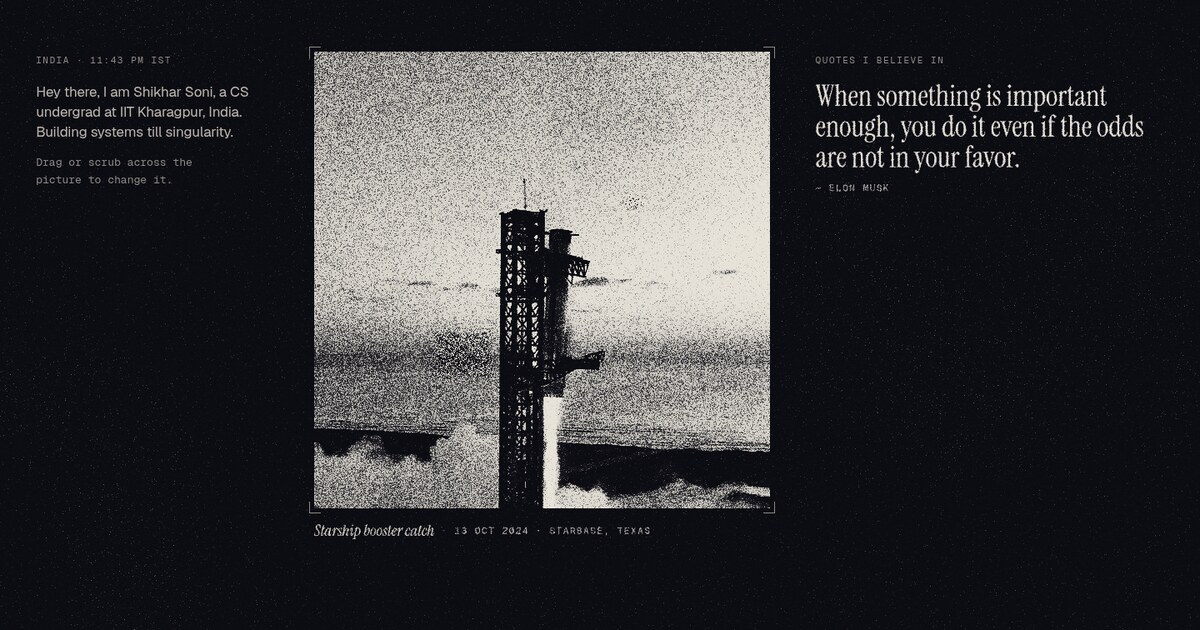
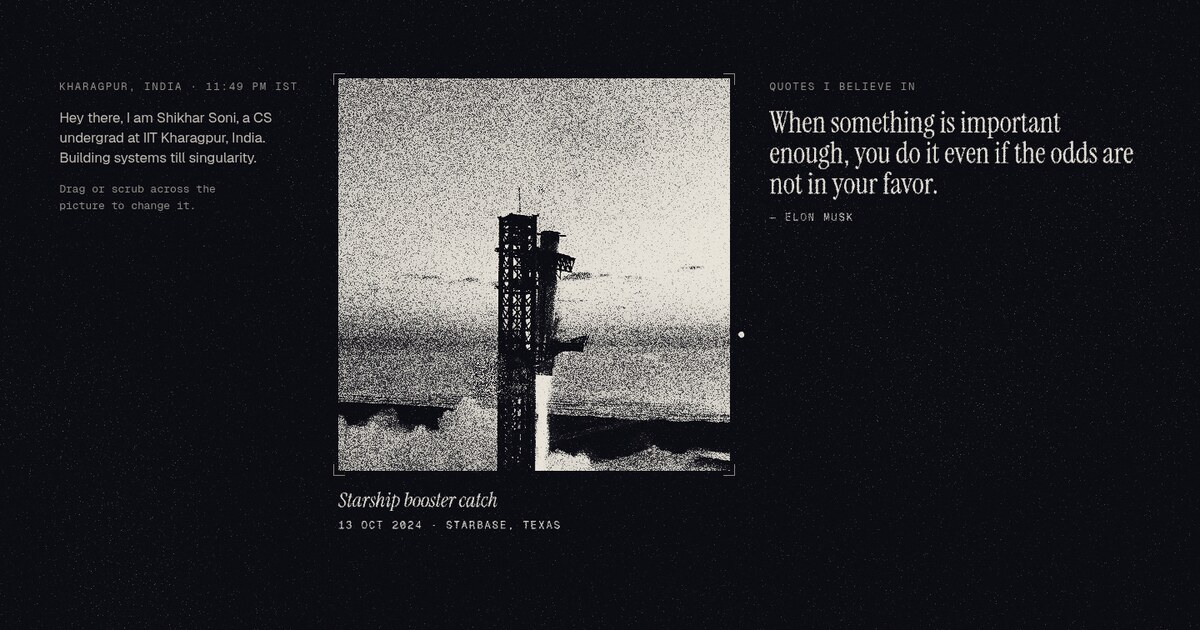
Bigger subtitle with date and place on their own line, slightly smaller picture, larger small labels, Kharagpur clock line, no text selection

Changed region(s): [[0.0308, 0.0603, 0.9558, 0.8746]]

diff --git a/style.css b/style.css
@@ -18,7 +18,7 @@
   --sans: "Geist", "Helvetica Neue", Arial, sans-serif;
   --fs: clamp(13px, 0.42vw + 7px, 22px);           /* small UI text; grows a little on very wide screens */
   --lede: clamp(17px, 0.75vw + 8px, 34px);         /* the reading size everything else is set from */
-  --pl: min(calc(100svh - 17 * var(--fs) - 60px), 38vw, 1180px);   /* the plate: the generator's picture */
+  --pl: calc(min(calc(100svh - 17 * var(--fs) - 60px), 38vw, 1180px) * 0.86);   /* the plate: the generator's picture (a little smaller, so the subtitle under it is read) */
   --pad: clamp(18px, 3vw, 80px);
   --hl: calc(var(--fs) * 1.6);                     /* height of the small label line above the quote */
   --hgap: calc(var(--fs) * 1.1);
@@ -31,14 +31,14 @@
   --s-q: calc(var(--lede) * var(--qr));            /* the quote at full size */
   --q-width: 15;                                   /* the quote column, in quote-size ems */
   --s-cap: max(16px, calc(var(--lede) * 0.9));
-  --label: var(--mono); --s-label: max(11px, calc(var(--fs) * 0.78)); --ls-label: .14em; --tt-label: uppercase;
+  --label: var(--mono); --s-label: max(12.5px, calc(var(--fs) * 0.9)); --ls-label: .14em; --tt-label: uppercase;
   --s-qlabel: max(var(--s-label), calc(var(--s-q) * 0.25));   /* heading and credit next to the quote */
 }
 [data-qf="2"] { --qface: "Newsreader Display", var(--voice); --qr: 1.8; --lh-q: 1.14; --w-q: 380; --st-q: italic; --q-width: 15.5; }
 [data-qf="3"] { --qface: "Fraunces Display", var(--voice); --qr: 1.78; --lh-q: 1.12; --w-q: 420; --q-width: 15.5; }
 html { background: var(--bg); color: var(--ink); }
 * { box-sizing: border-box; }
-body { margin: 0; font: 400 var(--fs)/1.6 var(--mono); -webkit-font-smoothing: antialiased; font-kerning: normal; }
+body { margin: 0; font: 400 var(--fs)/1.6 var(--mono); -webkit-font-smoothing: antialiased; font-kerning: normal; -webkit-user-select: none; user-select: none; }   /* no text can be selected (Shikhar, 22 Nov) */
 a { color: var(--ink); text-decoration: none; border-bottom: 1px solid var(--faint); }
 a:hover, a:focus-visible { border-color: var(--ink); }
 :focus-visible { outline: 1px solid var(--ink); outline-offset: 3px; }
@@ -82,7 +82,7 @@ html.used .intro .hint { opacity: 0; }   /* the "drag / swipe" hint goes once th
 .flat { display: none; width: 100%; height: 100%; }
 html.no-gl .flat { display: block; }
 /* the subtitle: a caption, like a film still's or a museum label: the title in italic, date and place quieter */
-.cap { font: 400 var(--s-cap)/1.3 var(--voice); margin: 16px 0 4px; min-height: 1.3em; user-select: none; text-wrap: balance; }
+.cap { font: 400 var(--s-cap)/1.3 var(--voice); margin: 20px 0 4px; min-height: 1.3em; user-select: none; text-wrap: balance; }
 .cap-t { font-style: italic; }
 .cap-d { color: var(--dim); --tone: .66; }
 /* small labels: the quotes heading and credit follow the quote's scale */
@@ -116,10 +116,10 @@ html.no-gl .flat { display: block; }
   --s-lede: calc(var(--lede) * 0.9); --lh-lede: 1.42; --w-lede: 400;
   --qface: var(--voice); --qr: 1.85; --lh-q: 1.06; --ls-q: 0; --w-q: 400;
   --q-width: 13;
-  --s-cap: max(17px, calc(var(--lede) * 0.98));
+  --s-cap: max(20px, calc(var(--lede) * 1.3));
 }
 [data-type="c"] .lede { font-family: var(--sans); letter-spacing: -.01em; }
-[data-type="c"] .cap-d { font: 400 var(--s-label)/1 var(--mono); letter-spacing: var(--ls-label); text-transform: uppercase; vertical-align: .18em; --tone: .75; }
+[data-type="c"] .cap-d { display: block; margin-top: .7em; font: 400 var(--s-label)/1 var(--mono); letter-spacing: var(--ls-label); text-transform: uppercase; --tone: .92; }
 
 @media (max-width: 860px) {
   :root { --fs: 13px; --lede: 17px; --pl: calc(100vw - 2 * var(--pad)); --pad: 18px; --ls-label: .1em; --s-lede: 16px; --s-q: calc(var(--lede) * var(--qr) * 0.85); }
@@ -133,7 +133,7 @@ html.no-gl .flat { display: block; }
   .lede { margin-bottom: .6em; }
   .hint { margin-bottom: 20px; text-wrap: balance; }
   .gen { margin-bottom: 44px; }
-  .cap { margin-top: 14px; }
+  .cap { margin-top: 20px; }
   .quotes { width: auto; height: auto; padding-bottom: 40px; }
   .quote { flex: none; height: calc(var(--s-q) * var(--lh-q) * 6 + var(--s-qlabel) * 2.6); }   /* room for six lines at full size */
 }

diff --git a/index.html b/index.html
@@ -23,8 +23,7 @@
 (() => {
   const d = document.documentElement, p = new URLSearchParams(location.search), t = p.get('type'), qf = p.get('qf');
   d.classList.add('js');
-  if (/^[abc]$/.test(t)) d.dataset.type = t;
-  if (d.dataset.type === 'a' && /^[23]$/.test(qf)) d.dataset.qf = qf;
+  if (/^[abc]$/.test(t)) d.dataset.type = t;  if (d.dataset.type === 'a' && /^[23]$/.test(qf)) d.dataset.qf = qf;
   const qface = { 1: 'cormorant-garamond-wght', 2: 'newsreader-display-italic-wght', 3: 'fraunces-display-wght' }[d.dataset.qf || 1];
   const fonts = { a: [qface, 'eb-garamond-wght', 'eb-garamond-italic-wght', 'geist-mono-wght'], b: ['newsreader-wght', 'newsreader-italic-wght'], c: ['instrument-serif', 'instrument-serif-italic', 'geist-wght', 'geist-mono-wght'] }[d.dataset.type];
   for (const f of fonts) { const l = document.createElement('link'); l.rel = 'preload'; l.as = 'font'; l.type = 'font/woff2'; l.crossOrigin = ''; l.href = `fonts/${f}.woff2`; document.head.append(l); }
@@ -44,7 +43,7 @@
 
 <main class="stage">
   <section class="intro">
-    <p class="intro-label">India<span data-clock></span></p>
+    <p class="intro-label">Kharagpur, India<span data-clock></span></p>
     <p class="lede">Hey there, I am Shikhar Soni, a CS undergrad at IIT Kharagpur, India. Building systems till singularity.</p>
     <p class="hint"><span class="mouse">Drag or scrub across the picture to change it.</span><span class="touch">Swipe or rub the picture to change it.</span></p>  </section>
 

diff --git a/js/main.js b/js/main.js
@@ -82,7 +82,7 @@ const descOf = (c) => ready.get(reel[c])?.desc ?? 'a picture still to come.';
 function setCaption(s) {   // "Title · date · place": the title and the details are set in different styles
   const k = s.indexOf(' · ');
   capT.textContent = k < 0 ? s : s.slice(0, k);
-  capD.textContent = k < 0 ? '' : ` · ${s.slice(k + 3)}`;
+  capD.textContent = k < 0 ? '' : s.slice(k + 3);   // date and place go on their own line under the title
 }
 
 // the quote is the largest text on the page; a long one steps down until it fits its room,
